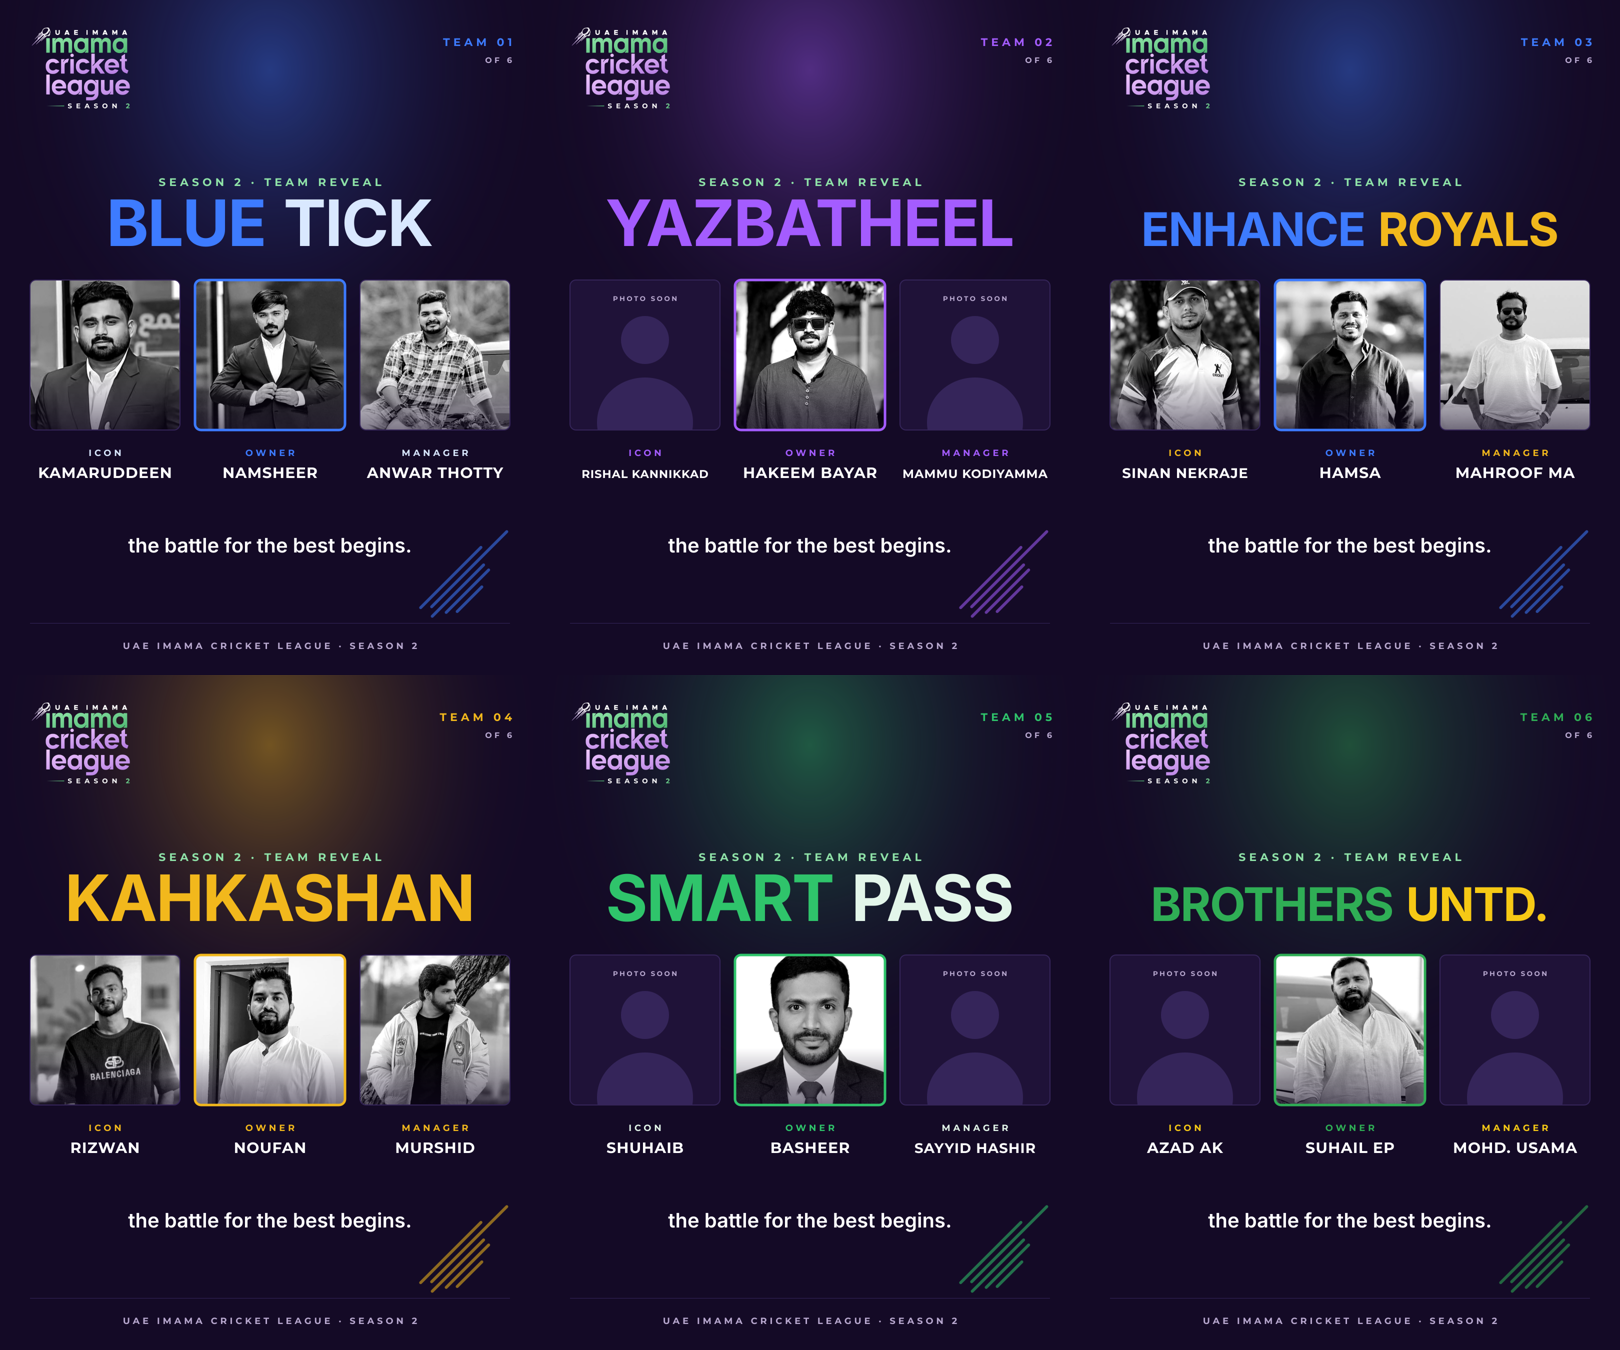
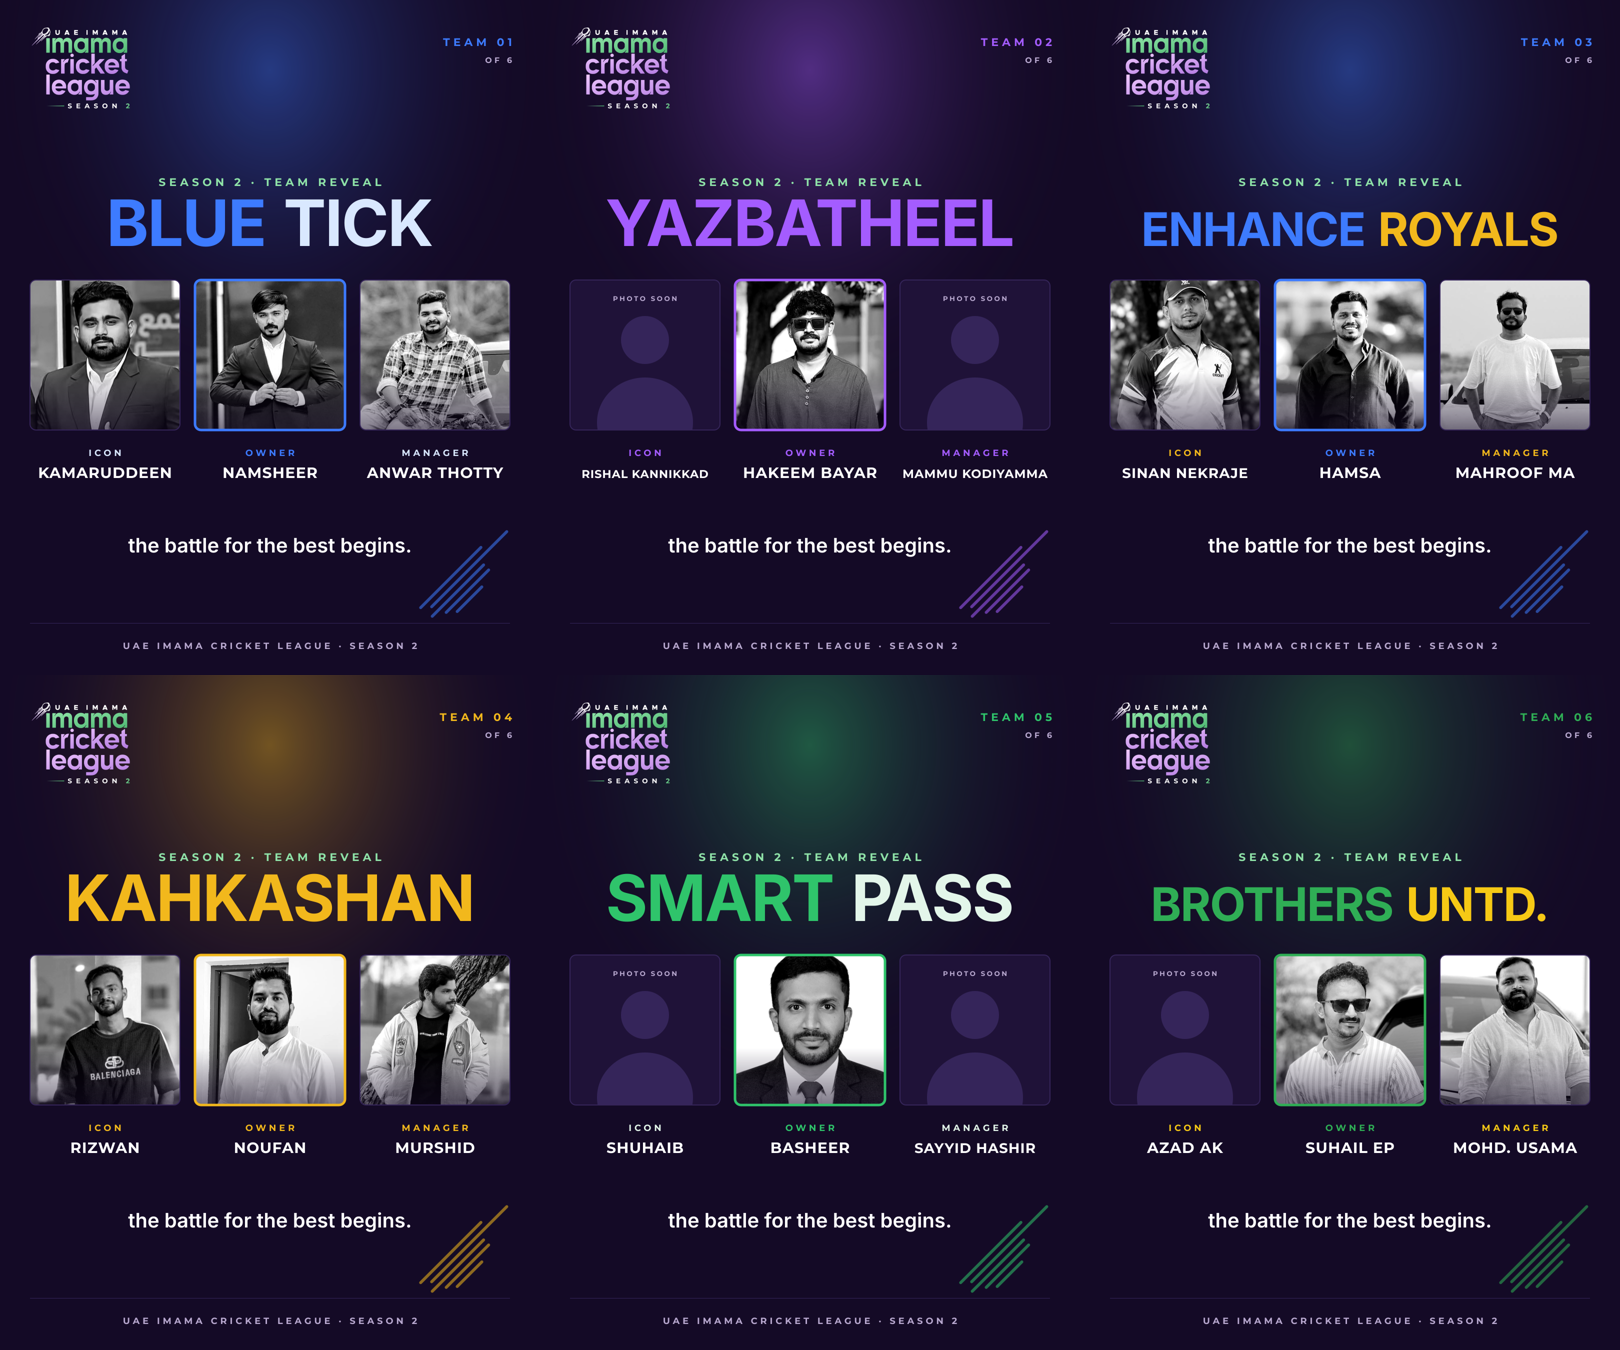
Team reveal: fix Brothers Untd. owner photo, add manager photo
Claude-Session: https://claude.ai/code/session_01SwyQDQjSwhzbvubs2RWco5

Changed region(s): [[0.7716, 0.6844, 0.9877, 0.84]]

diff --git a/promo/team-reveal/README.md b/promo/team-reveal/README.md
@@ -18,6 +18,6 @@ Real photos only, shown in black and white. Anyone without a photo gets a "PHOTO
 |---|---|
 | Yazbatheel | Rishal Kannikkad (icon), Mammu Kodiyamma (manager) |
 | Smart Pass | Shuhaib (icon), Sayyid Hashir (manager) |
-| Brothers Untd. | Azad AK (icon), Mohd. Usama (manager) |
+| Brothers Untd. | Azad AK (icon) |
 
-People were matched to photos by eye against the Season 2 auction posters. Kahkashan and Enhance Royals photos were supplied per team by the organiser; check the other faces before posting.
+People were matched to photos by eye against the Season 2 auction posters. Kahkashan, Enhance Royals and Brothers Untd. photos were supplied per team by the organiser; check the other faces before posting.
